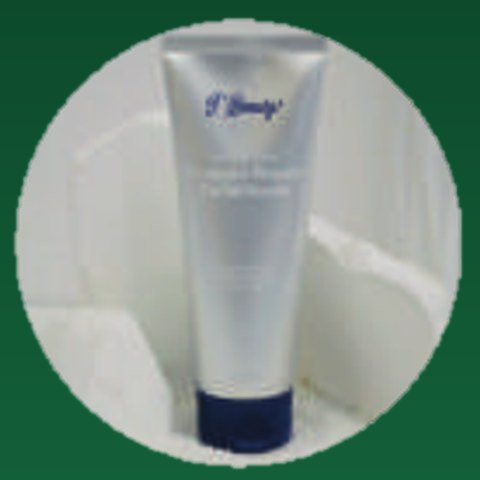
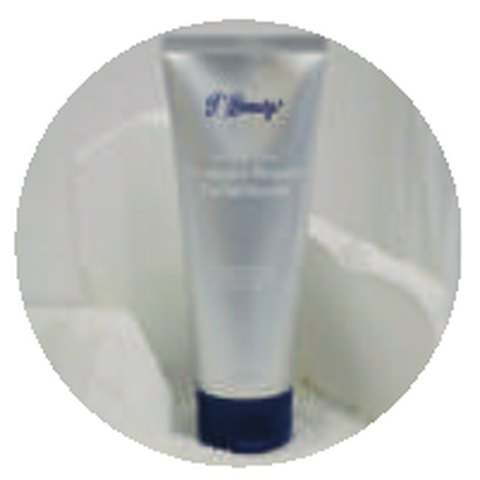
Trả ảnh nhóm Mỹ phẩm về nền gốc
Claude-Session: https://claude.ai/code/session_01T9dUvHGd17H81H6mRrnhtA

diff --git a/index.html b/index.html
@@ -519,7 +519,7 @@ const SETS = [
 ];
 const DIR = "images/san-pham/";
 // Đổi số phiên bản khi thay ảnh catalog để trình duyệt tải ảnh mới thay vì ảnh cũ đã lưu.
-const IMG_V = "?v=2";
+const IMG_V = "?v=3";
 const full = f => DIR + f + (f.startsWith("catalog/") ? IMG_V : "");
 const thumb = f => f.startsWith("catalog/") ? full(f) : DIR + "nho/" + f;
 const lb = document.getElementById("lb"), lbImg = document.getElementById("lb-img");
